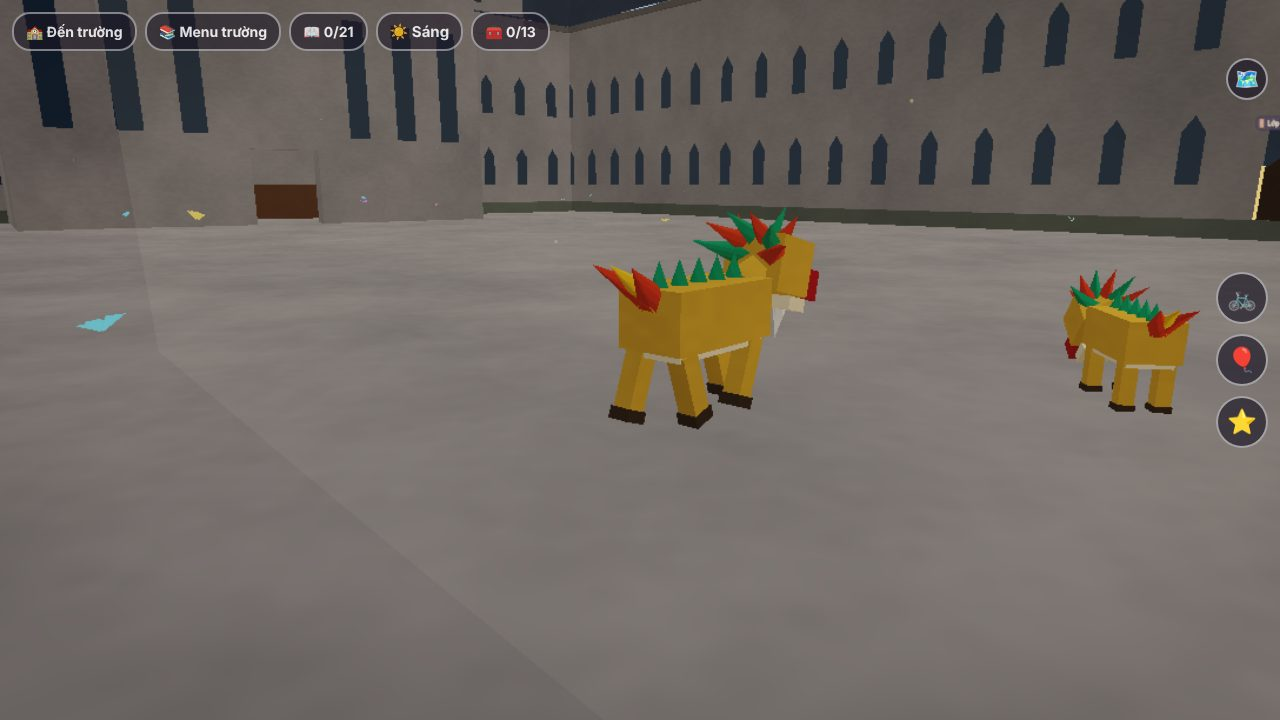
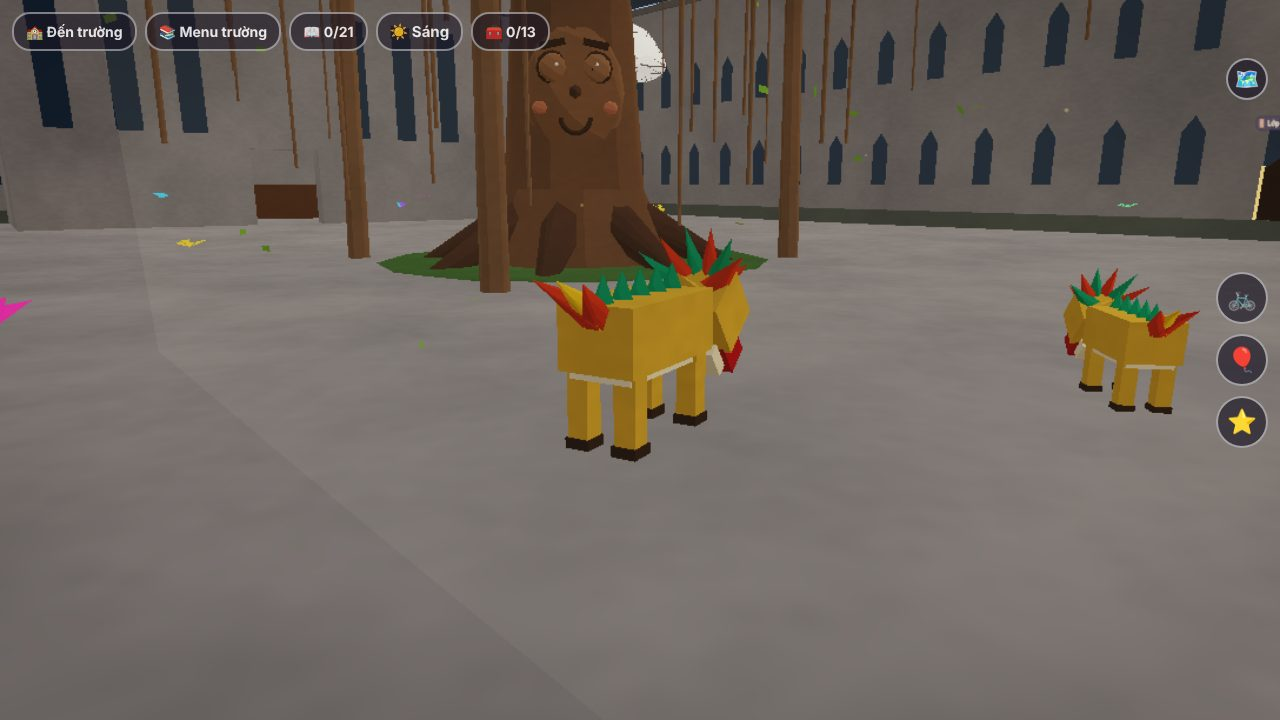
Học viện Pha Lê: lân tránh cả vật tròn (ctx.colliders — cây đa) ngoài tường
Claude-Session: https://claude.ai/code/session_012QLWn8Li2mzAVPzF95bE7r

diff --git a/client/js/island/academy/creatures.js b/client/js/island/academy/creatures.js
@@ -142,7 +142,7 @@ export function create(ctx, magic, { toWorld, toLocal, L, Y }) {
   const C0 = toWorld(0, 0), A = L.astro;
   const night = () => (ctx.sky && ctx.sky.state ? ctx.sky.state.night || 0 : 0);
   const hAt = (u, v) => { const [x, z] = toWorld(u, v); return ctx.terrain.heightAt(x, z); };
-  const blocked = (u, v, m) => { const [x, z] = toWorld(u, v); for (const b of ctx.boxes || []) if (b.top > Y + 0.6 && x > b.x0 - m && x < b.x1 + m && z > b.z0 - m && z < b.z1 + m) return true; return false; };
+  const blocked = (u, v, m) => { const [x, z] = toWorld(u, v); for (const b of ctx.boxes || []) if (b.top > Y + 0.6 && x > b.x0 - m && x < b.x1 + m && z > b.z0 - m && z < b.z1 + m) return true; for (const c of ctx.colliders || []) if (!c.lan && Math.abs(c.x - x) < c.r + m && Math.abs(c.z - z) < c.r + m && Math.hypot(c.x - x, c.z - z) < c.r + m) return true; return false; };   // tường + vật tròn (cây đa…)
   const HERB = { u0: -92, u1: 24, v0: 46, v1: 102 };   // Sân Thảo Mộc (sân đông)
   let seed = 55; const rnd = () => (seed = (seed * 16807) % 2147483647) / 2147483647;
   const spot = (m, tries = 34) => { for (let i = 0; i < tries; i++) { const u = HERB.u0 + rnd() * (HERB.u1 - HERB.u0), v = HERB.v0 + rnd() * (HERB.v1 - HERB.v0); if (!blocked(u, v, m)) return [u, v]; } return [-34, 60]; };
@@ -165,7 +165,7 @@ export function create(ctx, magic, { toWorld, toLocal, L, Y }) {
     const tFlip = inst(flipperGeo(), matV(), 4);
     // 🦁 lân mẹ + lân con
     const lBody = inst(lanBody(), matV(), 2, true), lHead = inst(lanHead(), matV(), 2), lLeg = inst(lanLeg(), matV(), 8, true);
-    const lans = [1, 0.72].map(sc => { const [u, v] = spot(2.6); const c = { x: 0, z: 0, r: 1.3 * sc }; ctx.colliders && ctx.colliders.push(c); return { u, v, yaw: rnd() * 6.28, tu: u, tv: v, mode: 'graze', timer: 2 + rnd() * 5, ph: 0, walk: 0, sc, col: c, y: hAt(u, v) }; });
+    const lans = [1, 0.72].map(sc => { const [u, v] = spot(2.6); const c = { x: 0, z: 0, r: 1.3 * sc, lan: true }; ctx.colliders && ctx.colliders.push(c); return { u, v, yaw: rnd() * 6.28, tu: u, tv: v, mode: 'graze', timer: 2 + rnd() * 5, ph: 0, walk: 0, sc, col: c, y: hAt(u, v) }; });
     // 🦋 bướm
     const NF = 21, fMat = new THREE.MeshBasicMaterial({ side: THREE.DoubleSide, transparent: true, opacity: 0.92, depthWrite: false, toneMapped: false });
     const fWing = inst(bflyWing(), fMat, NF * 2), FCOL = ['#33d6ff', '#a066ff', '#ff4fb8', '#ffd23a', '#4dffa0'].map(c => new THREE.Color(c));
